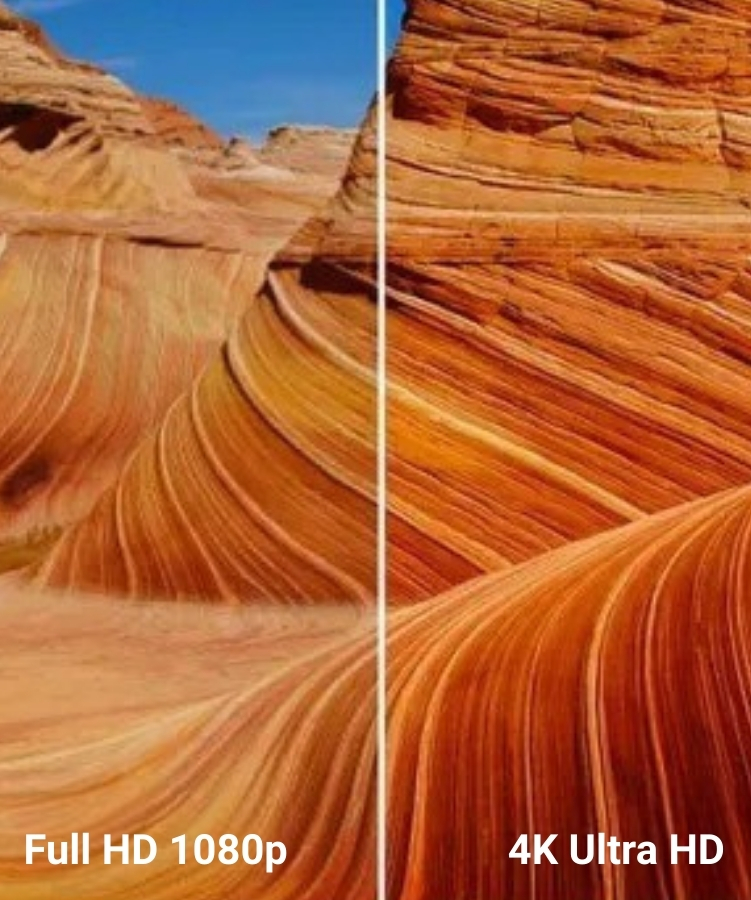
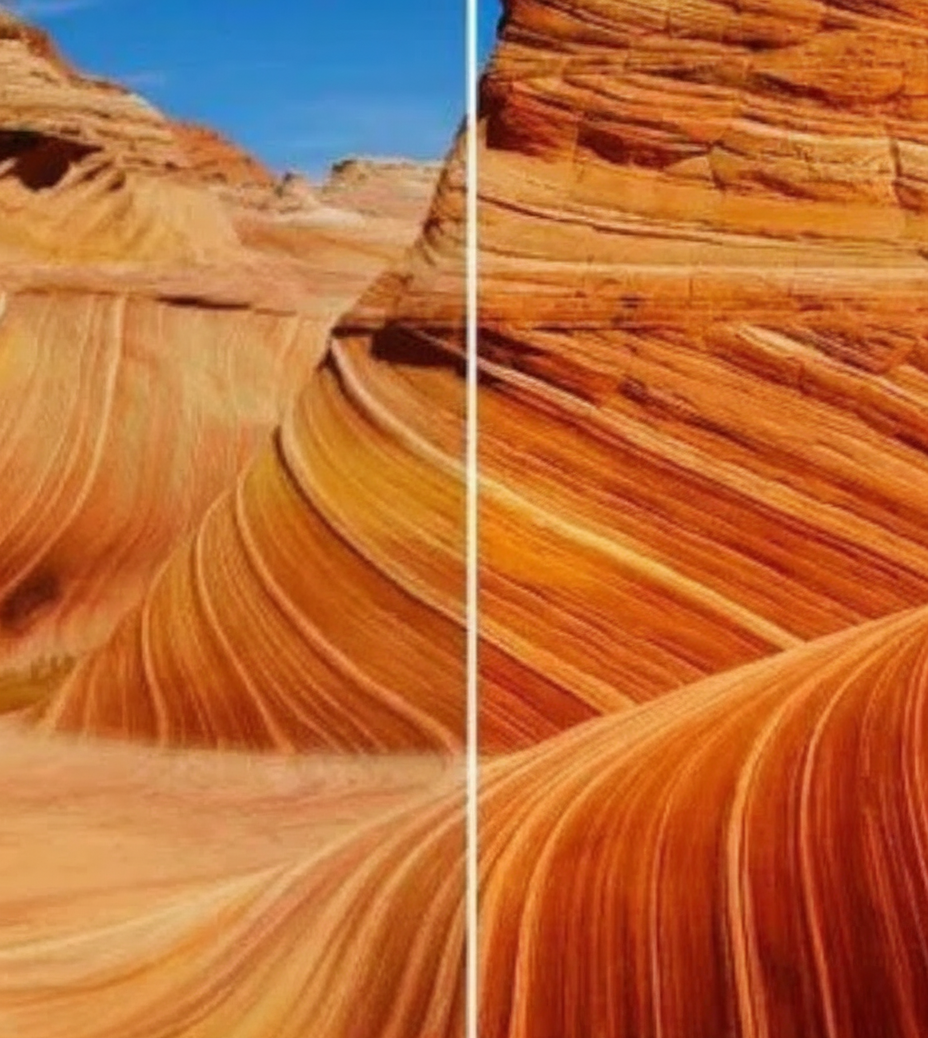
responsive images and layout

diff --git a/src/app/technologies/hdcvi-ten/Mian.tsx b/src/app/technologies/hdcvi-ten/Mian.tsx
@@ -253,7 +253,7 @@ export default function HDCVITenPage() {
                   className="absolute inset-0 bg-black bg-opacity-40 rounded-2xl"
                   style={{
                     backgroundImage:
-                      'url("https://images.unsplash.com/photo-1574717024653-61fd2cf4d44d?w=1200&h=675&fit=crop")',
+                      'url("/images/hdvv.png")',
                     backgroundSize: 'cover',
                     backgroundPosition: 'center',
                   }}
